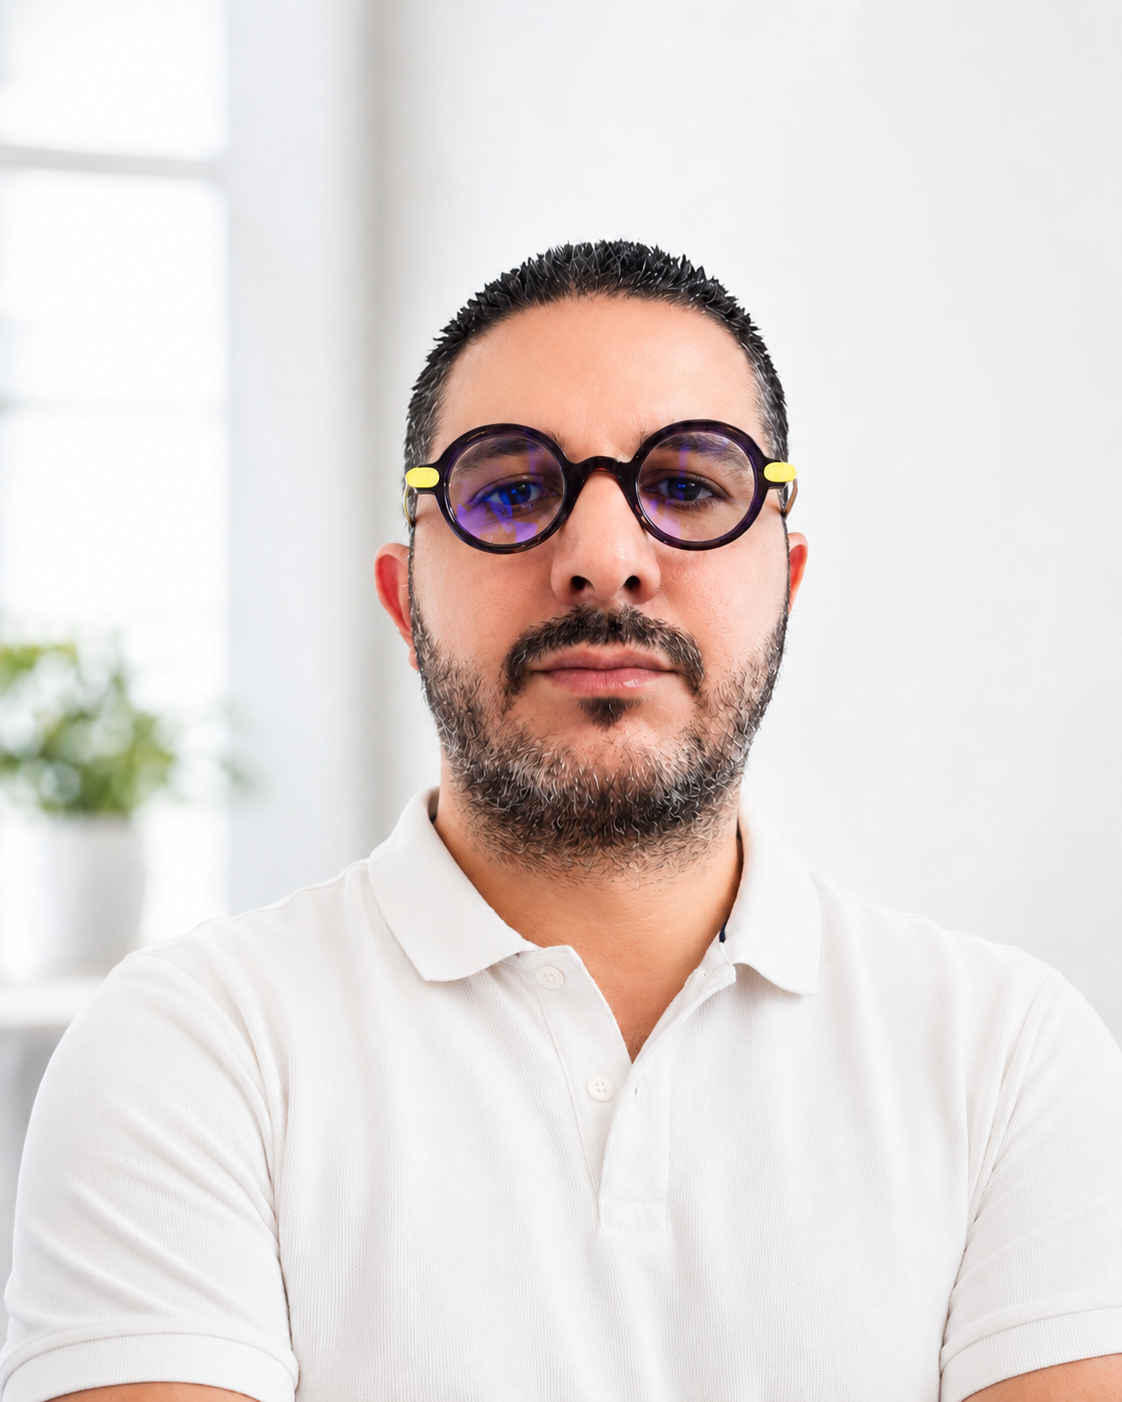
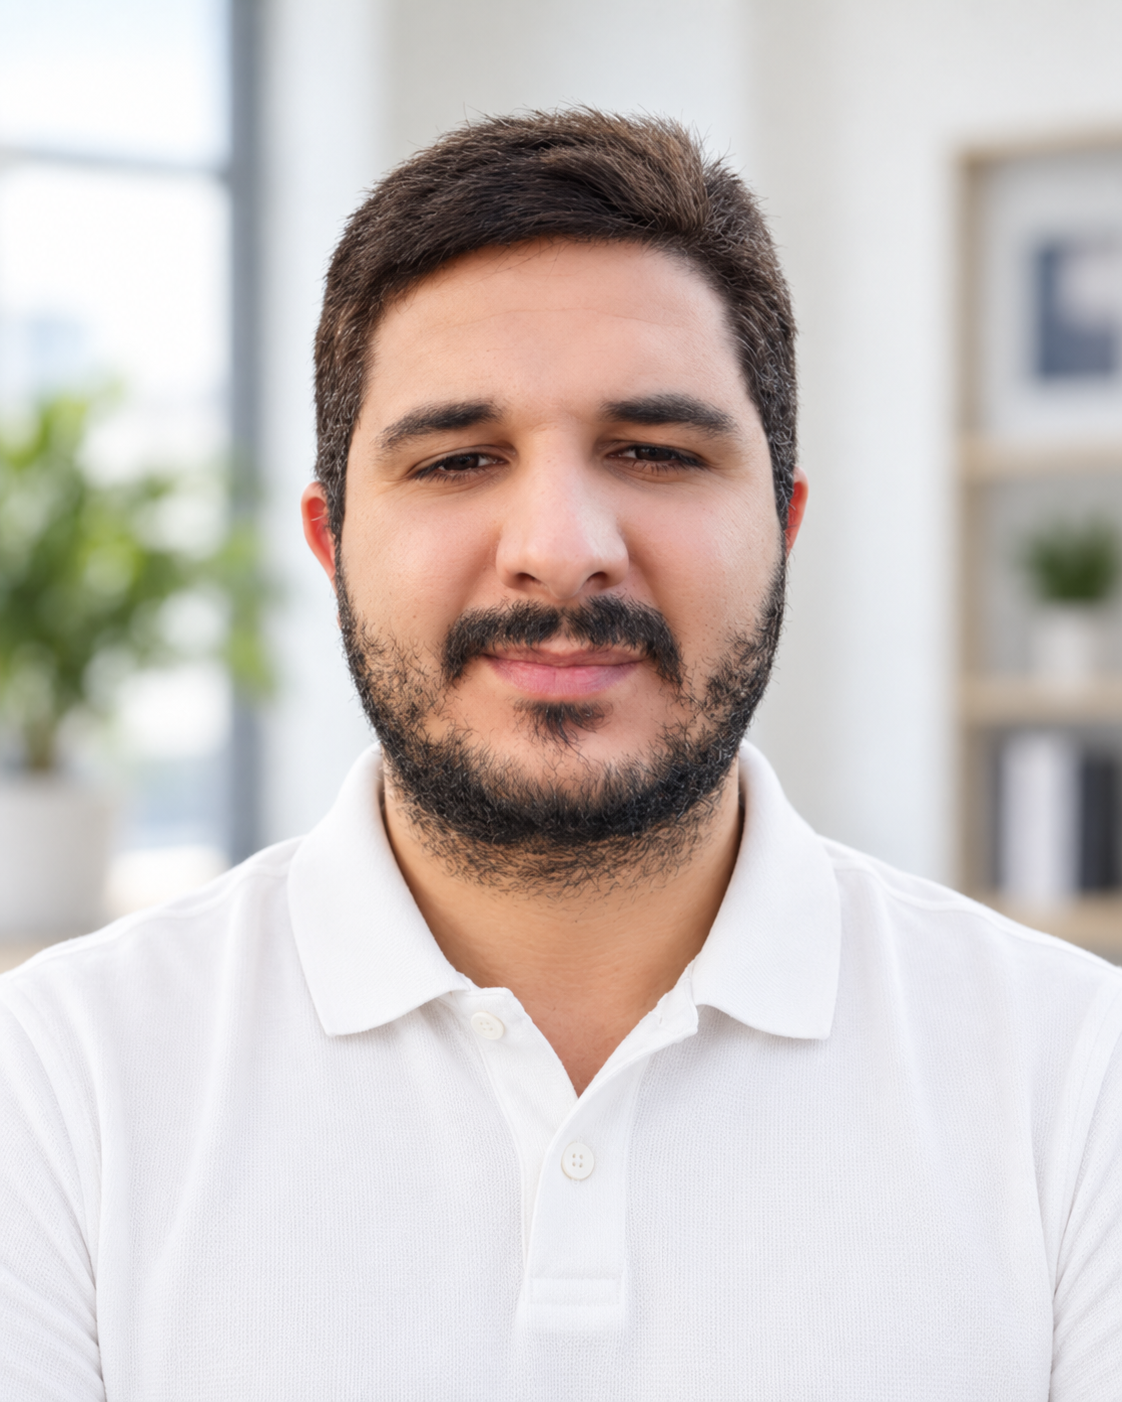
terminal urgence project + profile picture

diff --git a/src/components/sections/experiencesComponent.vue b/src/components/sections/experiencesComponent.vue
@@ -198,8 +198,41 @@ const entreprises = [
       <div class="grid grid-cols-8 relative">
         <!-- Grille des Projets -->
         <div
-          class="col-span-6 col-start-2 grid max-sm:grid-cols-1 md:grid-cols-3 gap-10"
+          class="col-span-8 col-start-1 grid max-sm:grid-cols-1 md:grid-cols-4 gap-10"
         >
+
+          <!-- IESS -->
+          <div
+            class="card rounded-xl p-6 text-center flex flex-col w-full h-full"
+          >
+            <div class="py-8 bg-gray-900">
+              <img
+                src="@/assets/img/entreprise/iess-paca.svg"
+                alt="WebMediaRM Logo"
+                class="mx-auto w-full h-40 my-4 bg-orange-600"
+              />
+            </div>
+            <h3 class="text-lg font-semibold text-emerald-300 mb-1">
+              Terminal Urgences (TU)
+            </h3>
+            <p class="text-gray-200 mb-5">
+              <span class="text-emerald-500 font-bold">Le Terminal des Urgences</span> est un outil informatisé de gestion des services d’urgences sous forme d’une main courante.
+              <br>
+              Il est alimenté en temps réel par l’applicatif d’admission de l’établissement, qui reste maître en matière d’identité.
+              <br>
+              <span class="text-emerald-500 font-bold"
+                >Il est pensé par des professionnels et développé par des informaticiens spécialisés dans le domaine médical.</span
+              >
+            </p>
+            <a
+              href="https://tgs.iess.fr/presentation-tu/"
+              target="_blank"
+              class="inline-block text-sm text-emerald-300 border border-emerald-400/40 px-4 py-2 rounded-md hover:bg-emerald-400/10 transition mt-auto"
+              title="Me contacter pour les accès"
+              >Visiter le site (Tutoriel)</a
+            >
+          </div>
+
           <!-- GALACTIC -->
           <div
             class="card rounded-xl p-6 text-center flex flex-col w-full h-full"
@@ -327,9 +360,11 @@ const entreprises = [
             </div>
           </div>
 
-          <!-- SITE CREER AVEC TPL -->
+        </div>
+
+        <!-- SITE CREER AVEC TPL -->
           <div
-            class="card col-span-3 rounded-xl p-6 text-center flex flex-col w-full h-full"
+            class="card col-span-6 col-start-2 rounded-xl p-6 text-center mt-15"
           >
             <p class="mb-5 font-bold text-2xl text-emerald-200"></p>
             <div
@@ -437,7 +472,7 @@ const entreprises = [
               </div>
             </div>
           </div>
-        </div>
+
       </div>
     </div>
   </div>
